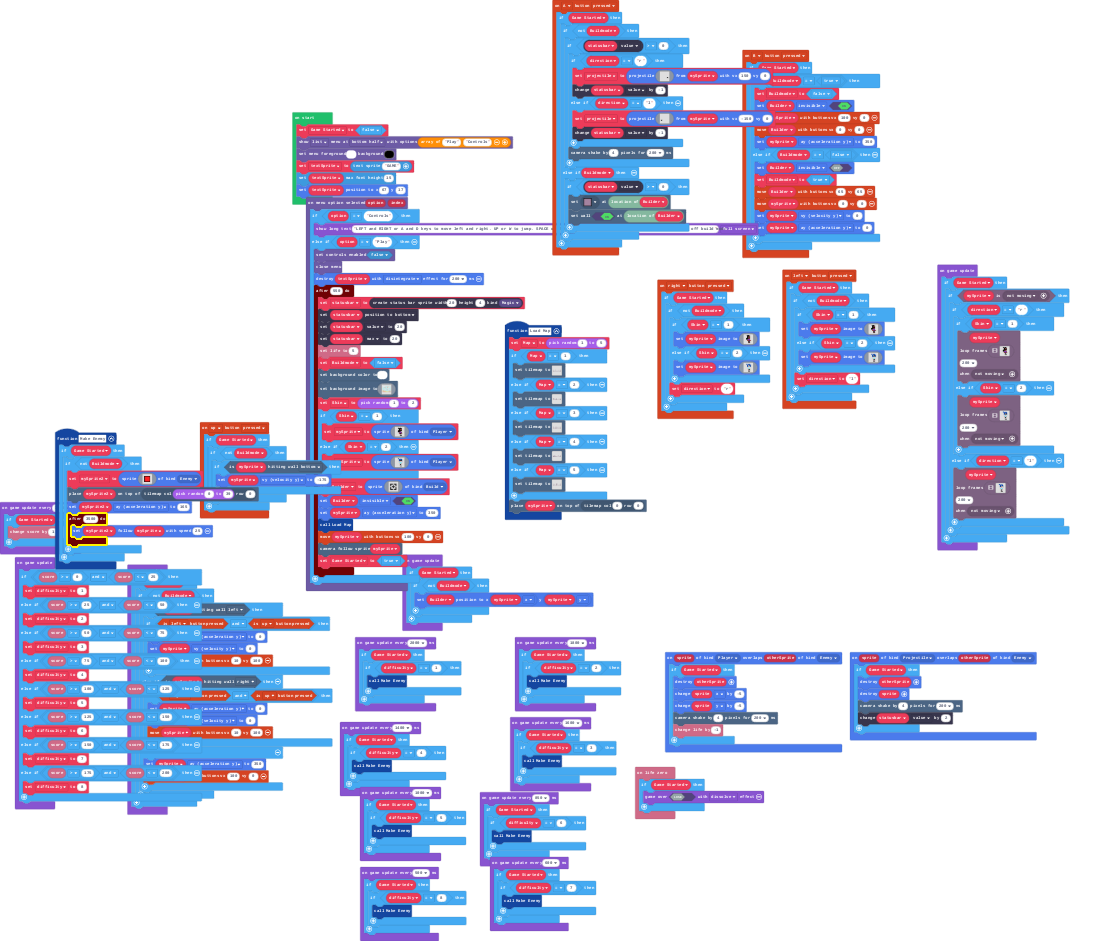
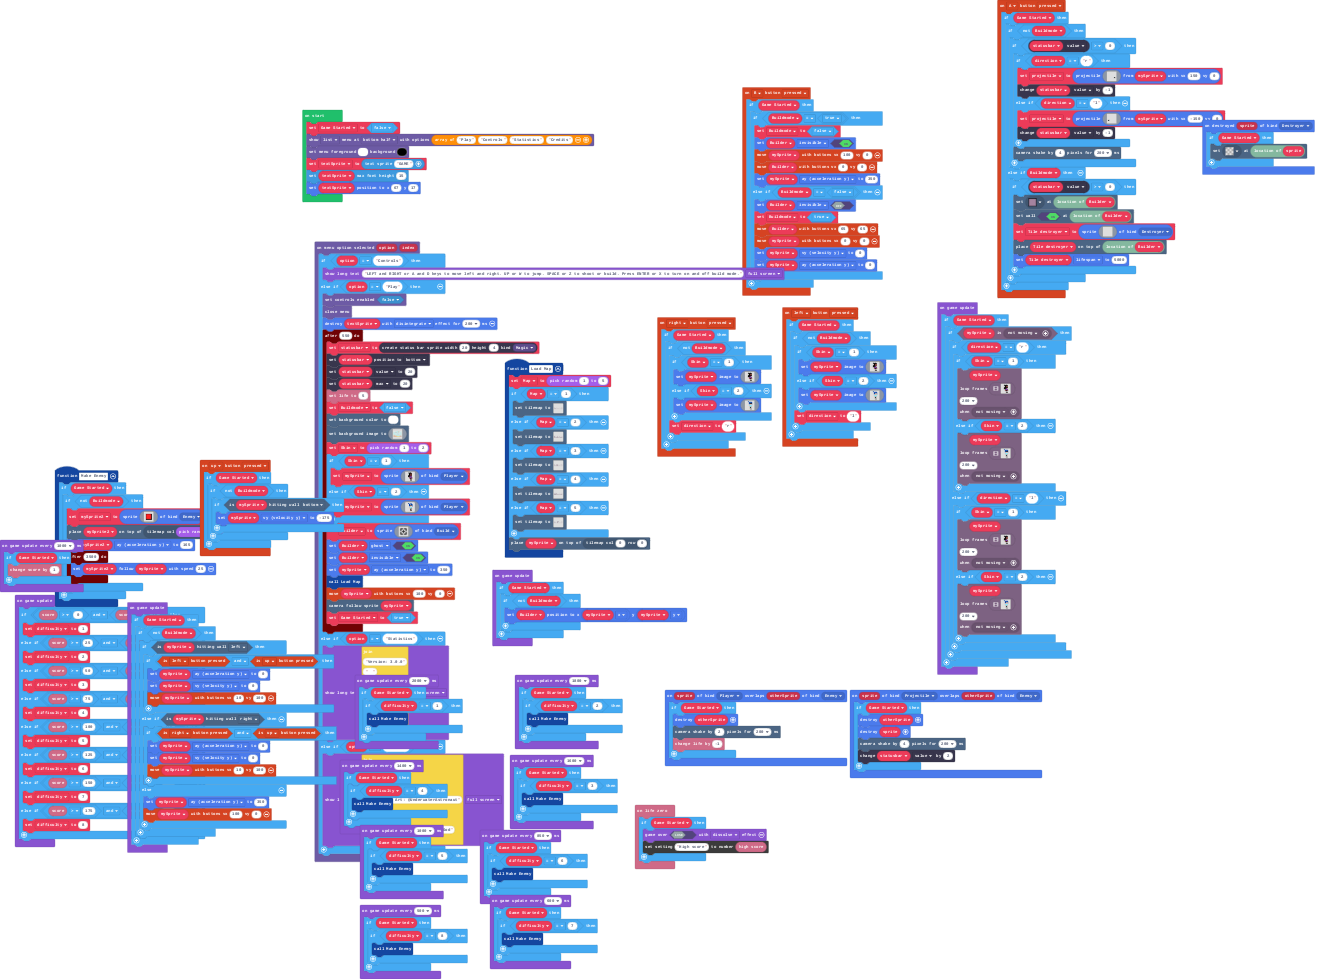
Update pxt.json, main.blocks, main.ts

diff --git a/main.ts b/main.ts
@@ -1,5 +1,6 @@
 namespace SpriteKind {
     export const Build = SpriteKind.create()
+    export const Destroyer = SpriteKind.create()
 }
 function Make_Enemy () {
     if (Game_Started) {
@@ -37,6 +38,11 @@ controller.up.onEvent(ControllerButtonEvent.Pressed, function () {
                 mySprite.vy = -175
             }
         }
+    }
+})
+sprites.onDestroyed(SpriteKind.Destroyer, function (sprite) {
+    if (Game_Started) {
+        tiles.setTileAt(tiles.locationOfSprite(sprite), myTiles.transparency16)
     }
 })
 controller.B.onEvent(ControllerButtonEvent.Pressed, function () {
@@ -86,11 +92,11 @@ function Load_Map () {
             2222222222222222222222222222222222222222
             `, [myTiles.transparency16,myTiles.tile1], TileScale.Sixteen))
     } else if (Map == 3) {
[2 lines of base64/hex data omitted]
             ..........2.....2...................2...
             2.........2.....2......................2
             2.22......2.....2...........2...2......2
-            2.........2.....2......................2
+            2.........2............................2
             2.........2..........2222..............2
             2.....22..2.....2......................2
             2.........2...222..........2.....2.....2
@@ -178,6 +184,26 @@ controller.A.onEvent(ControllerButtonEvent.Pressed, function () {
             if (statusbar.value > 0) {
                 tiles.setTileAt(tiles.locationOfSprite(Builder), myTiles.tile1)
                 tiles.setWallAt(tiles.locationOfSprite(Builder), true)
+                Tile_destroyer = sprites.create(img`
+                    . . . . . . . . . . . . . . . . 
+                    . . . . . . . . . . . . . . . . 
+                    . . . . . . . . . . . . . . . . 
+                    . . . . . . . . . . . . . . . . 
+                    . . . . . . . . . . . . . . . . 
+                    . . . . . . . . . . . . . . . . 
+                    . . . . . . . . . . . . . . . . 
+                    . . . . . . . . . . . . . . . . 
+                    . . . . . . . . . . . . . . . . 
+                    . . . . . . . . . . . . . . . . 
+                    . . . . . . . . . . . . . . . . 
+                    . . . . . . . . . . . . . . . . 
+                    . . . . . . . . . . . . . . . . 
+                    . . . . . . . . . . . . . . . . 
+                    . . . . . . . . . . . . . . . . 
+                    . . . . . . . . . . . . . . . . 
+                    `, SpriteKind.Destroyer)
+                tiles.placeOnTile(Tile_destroyer, tiles.locationOfSprite(Builder))
+                Tile_destroyer.lifespan = 5000
             }
         }
     }
@@ -277,6 +303,7 @@ controller.right.onEvent(ControllerButtonEvent.Pressed, function () {
 info.onLifeZero(function () {
     if (Game_Started) {
         game.over(false, effects.dissolve)
+        blockSettings.writeNumber("High score", info.highScore())
     }
 })
 blockMenu.onMenuOptionSelected(function (option, index) {
@@ -467,6 +494,7 @@ blockMenu.onMenuOptionSelected(function (option, index) {
                 . f f f . f f f . 
                 . . . . . . . . . 
                 `, SpriteKind.Build)
+            Builder.setFlag(SpriteFlag.Ghost, true)
             Builder.setFlag(SpriteFlag.Invisible, true)
             mySprite.ay = 350
             Load_Map()
@@ -474,6 +502,10 @@ blockMenu.onMenuOptionSelected(function (option, index) {
             scene.cameraFollowSprite(mySprite)
             Game_Started = true
         })
+    } else if (option == "Statistics") {
+        game.showLongText("Version: 3.0.0" + "  " + "  " + "  " + "  " + "High Score" + info.highScore(), DialogLayout.Full)
+    } else if (option == "Credits") {
+        game.showLongText("Sprite Art: @Kat" + "  " + "  " + "Background Art: @UnderwaterAstronaut" + "  " + "  " + "Coding: @omnisImperium / @GameGod", DialogLayout.Full)
     }
 })
 sprites.onOverlap(SpriteKind.Projectile, SpriteKind.Enemy, function (sprite, otherSprite) {
@@ -487,14 +519,13 @@ sprites.onOverlap(SpriteKind.Projectile, SpriteKind.Enemy, function (sprite, oth
 sprites.onOverlap(SpriteKind.Player, SpriteKind.Enemy, function (sprite, otherSprite) {
     if (Game_Started) {
         otherSprite.destroy()
-        sprite.x += -5
-        sprite.y += -5
-        scene.cameraShake(4, 200)
+        scene.cameraShake(2, 200)
         info.changeLifeBy(-1)
     }
 })
 let difficulty = 0
 let Skin = 0
+let Tile_destroyer: Sprite = null
 let projectile: Sprite = null
 let direction = ""
 let statusbar: StatusBarSprite = null
@@ -506,7 +537,7 @@ let Buildmode = false
 let textSprite: TextSprite = null
 let Game_Started = false
 Game_Started = false
-blockMenu.showMenu(["Play", "Controls"], MenuStyle.List, MenuLocation.BottomHalf)
+blockMenu.showMenu(["Play", "Controls", "Statistics", "Credits"], MenuStyle.List, MenuLocation.BottomHalf)
 blockMenu.setColors(1, 15)
 textSprite = textsprite.create("GAME")
 textSprite.setMaxFontHeight(15)
@@ -769,30 +800,165 @@ game.onUpdate(function () {
                     )
                 }
             } else if (direction == "l") {
-                character.loopFrames(
-                mySprite,
-                [img`
-                    . . . . . 8 . . . . . . . . . . 
-                    . . . . 8 8 . 8 8 8 8 8 . . . . 
-                    . . . . . . 8 8 8 8 8 8 8 . . . 
-                    . . . . . . 8 8 d d 8 8 8 . . . 
-                    . . . . . . 8 8 f d f d 8 . . . 
-                    . . . . . . 8 8 f d f d 8 . . . 
-                    . . . . . . 8 d d d d d 8 . . . 
-                    . . . . . . . . . b . . . . . . 
-                    . . . . . . . 9 9 9 9 9 . . . . 
-                    . . . . . . . b 9 9 9 b . . . . 
-                    . . . . . . d d d 9 9 d d . . . 
-                    . . . . . . d d d f f d d . . . 
-                    . . . . . . . . f f f . . . . . 
-                    . . . . . . . . b . b . . . . . 
-                    . . . . . . . . d . d . . . . . 
-                    . . . . . . . . f f f f . . . . 
-                    `],
-                200,
-                character.rule(Predicate.NotMoving)
-                )
+                if (Skin == 1) {
+                    character.loopFrames(
+                    mySprite,
+                    [img`
+                        . . . . . f f . f f . . . . . . 
+                        . . . . . f f f f f f f . . . . 
+                        . . . . . . f f f e e f . . . . 
+                        . . . . . . f f e e e e . . . . 
+                        . . . . . . f f f e f e . . . . 
+                        . . . . . f f f f e f e . . . . 
+                        . . . . f f f e e e e e . . . . 
+                        . . . . f f f f f c f . . . . . 
+                        . . . . f f f a a a a c . . . . 
+                        . . . . . . . c a a a c . . . . 
+                        . . . . . . e e e a a e e . . . 
+                        . . . . . . e e e f f e e . . . 
+                        . . . . . . . . f f f . . . . . 
+                        . . . . . . . . c . c . . . . . 
+                        . . . . . . . . e . e . . . . . 
+                        . . . . . . . . f f f f . . . . 
+                        `,img`
+                        . . . . . . . . . . . . . . . . 
+                        . . . . . f f . f f . . . . . . 
+                        . . . . . f f f f f f f . . . . 
+                        . . . . . . f f f e e f . . . . 
+                        . . . . . . f f e e e e . . . . 
+                        . . . . . . f f f e f e . . . . 
+                        . . . . . f f f f e f e . . . . 
+                        . . . . f f f e e e e e . . . . 
+                        . . . . f f f f f c f . . . . . 
+                        . . . . f f f a a a a c . . . . 
+                        . . . . . . . c a a a c . . . . 
+                        . . . . . . e e e a a e e . . . 
+                        . . . . . . e e e f f e e . . . 
+                        . . . . . . . . f f f . . . . . 
+                        . . . . . . . . c . c . . . . . 
+                        . . . . . . . . f f f f . . . . 
+                        `,img`
+                        . . . . . . . . . . . . . . . . 
+                        . . . . . f f . f f . . . . . . 
+                        . . . . . f f f f f f f . . . . 
+                        . . . . . . f f f e e f . . . . 
+                        . . . . . . f f e e e e . . . . 
+                        . . . . . . f f e e e e . . . . 
+                        . . . . . f f f f e f e . . . . 
+                        . . . . f f f e e e e e . . . . 
+                        . . . . f f f f f c f . . . . . 
+                        . . . . f f f a a a a c . . . . 
+                        . . . . . . . c a a a c . . . . 
+                        . . . . . . e e e a a e e . . . 
+                        . . . . . . e e e f f e e . . . 
+                        . . . . . . . . f f f . . . . . 
+                        . . . . . . . . c . c . . . . . 
+                        . . . . . . . . f f f f . . . . 
+                        `,img`
+                        . . . . . . . . . . . . . . . . 
+                        . . . . . f f . f f . . . . . . 
+                        . . . . . f f f f f f f . . . . 
+                        . . . . . . f f f e e f . . . . 
+                        . . . . . . f f e e e e . . . . 
+                        . . . . . . f f e e e e . . . . 
+                        . . . . . f f f e e e e . . . . 
+                        . . . . f f f e e e e e . . . . 
+                        . . . . f f f f f c f . . . . . 
+                        . . . . f f f a a a a c . . . . 
+                        . . . . . . . c a a a c . . . . 
+                        . . . . . . e e e a a e e . . . 
+                        . . . . . . e e e f f e e . . . 
+                        . . . . . . . . f f f . . . . . 
+                        . . . . . . . . c . c . . . . . 
+                        . . . . . . . . f f f f . . . . 
+                        `,img`
+                        . . . . . . . . . . . . . . . . 
+                        . . . . . f f . f f . . . . . . 
+                        . . . . . f f f f f f f . . . . 
+                        . . . . . . f f f e e f . . . . 
+                        . . . . . . f f e e e e . . . . 
+                        . . . . . . f f e e e e . . . . 
+                        . . . . . f f f f e f e . . . . 
+                        . . . . f f f e e e e e . . . . 
+                        . . . . f f f f f c f . . . . . 
+                        . . . . f f f a a a a c . . . . 
+                        . . . . . . . c a a a c . . . . 
+                        . . . . . . e e e a a e e . . . 
+                        . . . . . . e e e f f e e . . . 
+                        . . . . . . . . f f f . . . . . 
+                        . . . . . . . . c . c . . . . . 
+                        . . . . . . . . f f f f . . . . 
+                        `,img`
+                        . . . . . . . . . . . . . . . . 
+                        . . . . . f f . f f . . . . . . 
+                        . . . . . f f f f f f f . . . . 
+                        . . . . . . f f f e e f . . . . 
+                        . . . . . . f f e e e e . . . . 
+                        . . . . . . f f f e f e . . . . 
+                        . . . . . f f f f e f e . . . . 
+                        . . . . f f f e e e e e . . . . 
+                        . . . . f f f f f c f . . . . . 
+                        . . . . f f f a a a a c . . . . 
+                        . . . . . . . c a a a c . . . . 
+                        . . . . . . e e e a a e e . . . 
+                        . . . . . . e e e f f e e . . . 
+                        . . . . . . . . f f f . . . . . 
+                        . . . . . . . . c . c . . . . . 
+                        . . . . . . . . f f f f . . . . 
+                        `,img`
+                        . . . . . f f . f f . . . . . . 
+                        . . . . . f f f f f f f . . . . 
+                        . . . . . . f f f e e f . . . . 
+                        . . . . . . f f e e e e . . . . 
+                        . . . . . . f f f e f e . . . . 
+                        . . . . . f f f f e f e . . . . 
+                        . . . . f f f e e e e e . . . . 
+                        . . . . f f f f f c f . . . . . 
+                        . . . . f f f a a a a c . . . . 
+                        . . . . . . . c a a a c . . . . 
+                        . . . . . . e e e a a e e . . . 
+                        . . . . . . e e e f f e e . . . 
+                        . . . . . . . . f f f . . . . . 
+                        . . . . . . . . c . c . . . . . 
+                        . . . . . . . . e . e . . . . . 
+                        . . . . . . . . f f f f . . . . 
+                        `],
+                    200,
+                    character.rule(Predicate.NotMoving)
+                    )
+                } else if (Skin == 2) {
+                    character.loopFrames(
+                    mySprite,
+                    [img`
+                        . . . . . 8 . . . . . . . . . . 
+                        . . . . 8 8 . 8 8 8 8 8 . . . . 
+                        . . . . . . 8 8 8 8 8 8 8 . . . 
+                        . . . . . . 8 8 d d 8 8 8 . . . 
+                        . . . . . . 8 8 f d f d 8 . . . 
+                        . . . . . . 8 8 f d f d 8 . . . 
+                        . . . . . . 8 d d d d d 8 . . . 
+                        . . . . . . . . . b . . . . . . 
+                        . . . . . . . 9 9 9 9 9 . . . . 
+                        . . . . . . . b 9 9 9 b . . . . 
+                        . . . . . . d d d 9 9 d d . . . 
+                        . . . . . . d d d f f d d . . . 
+                        . . . . . . . . f f f . . . . . 
+                        . . . . . . . . b . b . . . . . 
+                        . . . . . . . . d . d . . . . . 
+                        . . . . . . . . f f f f . . . . 
+                        `],
+                    200,
+                    character.rule(Predicate.NotMoving)
+                    )
+                }
             }
+        }
+    }
+})
+game.onUpdate(function () {
+    if (Game_Started) {
+        if (!(Buildmode)) {
+            Builder.setPosition(mySprite.x, mySprite.y)
         }
     }
 })
@@ -834,13 +1000,6 @@ game.onUpdate(function () {
                 mySprite.ay = 350
                 controller.moveSprite(mySprite, 100, 0)
             }
-        }
-    }
-})
-game.onUpdate(function () {
-    if (Game_Started) {
-        if (!(Buildmode)) {
-            Builder.setPosition(mySprite.x, mySprite.y)
         }
     }
 })
